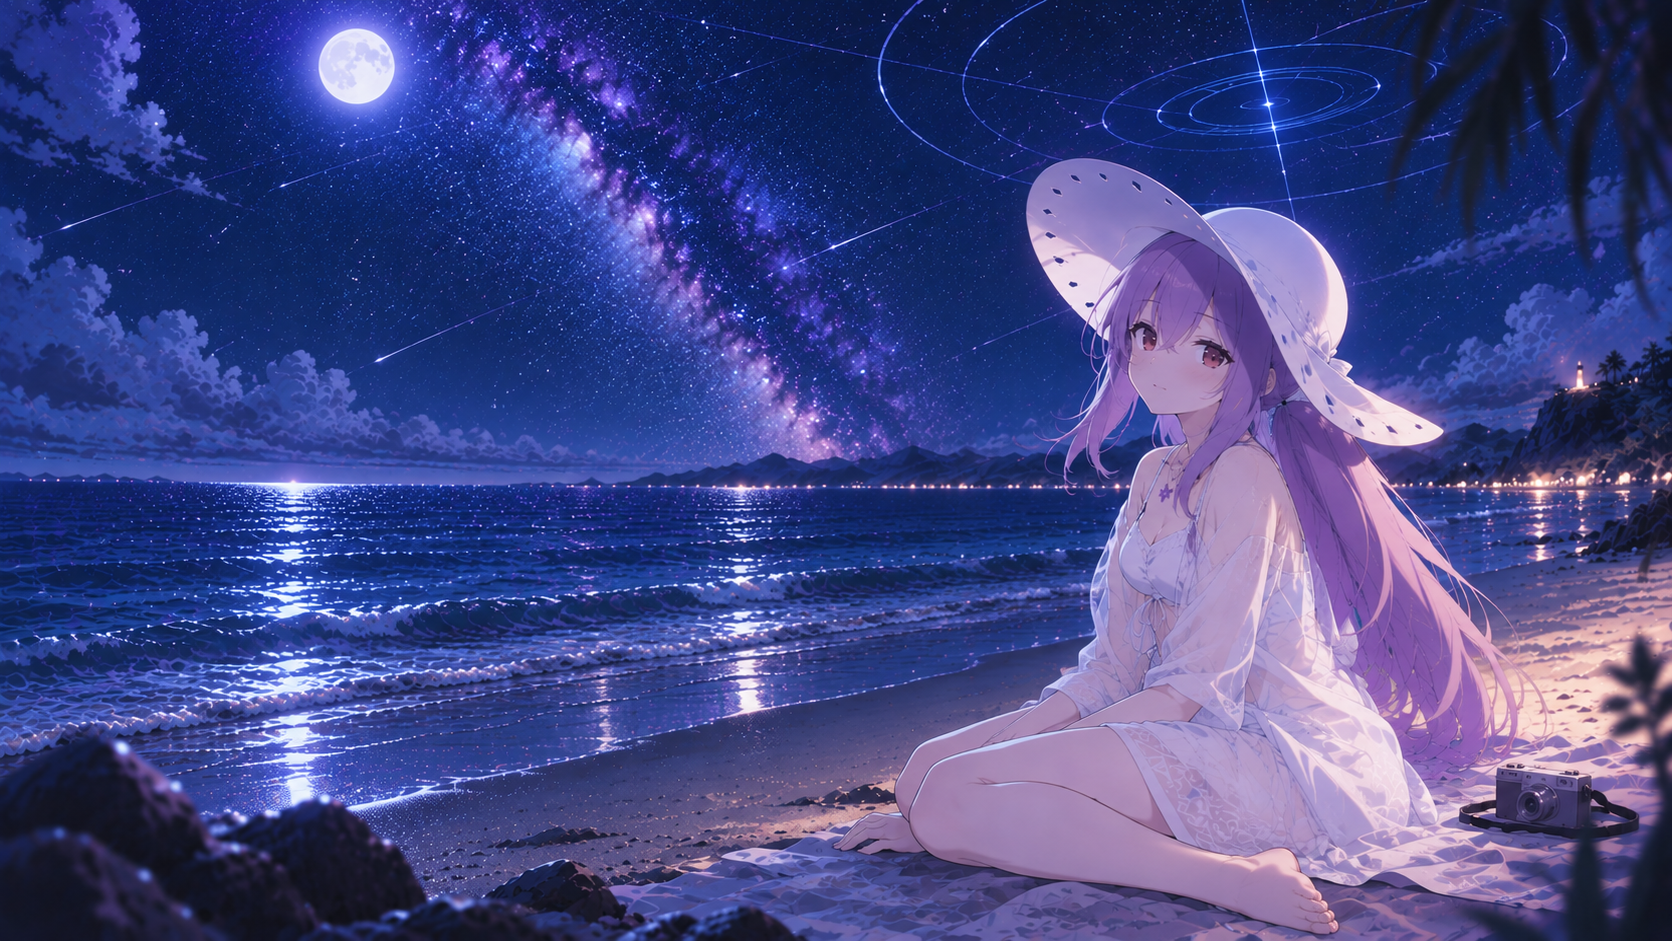
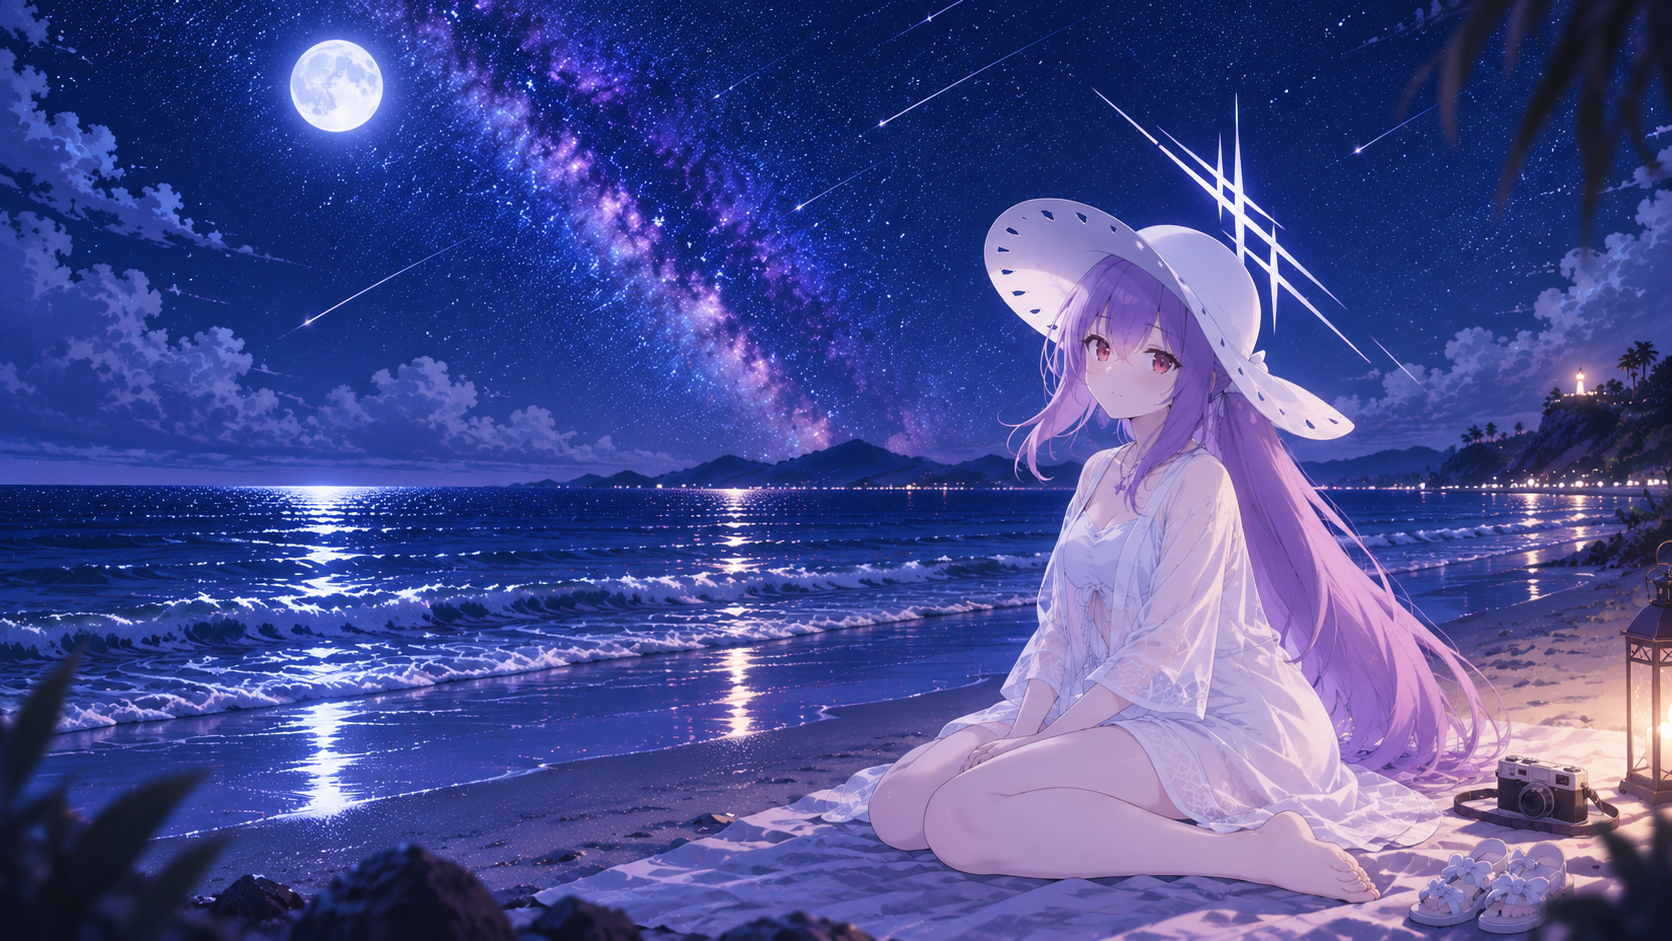
Add files via upload

diff --git a/index.html b/index.html
@@ -800,6 +800,19 @@ body.integrated-pages::before{
   background-size:100% auto;
   background-repeat:repeat-y;
 }
+
+/* V4.5.67: one viewport background only; never tile or duplicate the image. */
+body.integrated-pages::before{
+  position:fixed;
+  inset:0;
+  width:100vw;
+  height:100vh;
+  min-height:0;
+  aspect-ratio:auto;
+  background-size:cover;
+  background-position:center center;
+  background-repeat:no-repeat;
+}
 @media (max-width: 979px) {
   body.integrated-pages #status,
   body.integrated-pages #viewBoss > .panel {
@@ -812,10 +825,10 @@ body.integrated-pages::before{
 <div class="app grid">
   <div>
     <h1>蔚藍檔案總力戰 TL 編輯器</h1>
-    <div class="small">V4.5.66 · 全頁捲動背景版</div>
+    <div class="small">V4.5.67 · 單張跟隨背景版</div>
   </div>
-  <div id="status" class="status">V4.5.66 正在載入 272 名學生與本地圖片…</div>
-  <div class="small">V4.5.66 · 日服 · 繁體中文 · 全頁捲動背景</div>
+  <div id="status" class="status">V4.5.67 正在載入 272 名學生與本地圖片…</div>
+  <div class="small">V4.5.67 · 日服 · 繁體中文 · 單張跟隨背景</div>
 
   <section id="installHelp" class="panel grid">
     <div class="space">
@@ -1876,7 +1889,7 @@ $('refreshText').onclick=renderText;$('exportExcel').onclick=exportTimelineExcel
 
 (async()=>{
   try{
-    setStatus('V4.5.66 正在載入 272 名學生與本地圖片…');
+    setStatus('V4.5.67 正在載入 272 名學生與本地圖片…');
 
     students=applyV457JpCorrections(EMBEDDED_STUDENTS.map(x=>({...x})));
     raids=EMBEDDED_RAIDS.map(x=>({...x}));
@@ -1887,11 +1900,11 @@ $('refreshText').onclick=renderText;$('exportExcel').onclick=exportTimelineExcel
     renderStudents();
     renderTl();
 
-    setStatus(`V4.5.66 載入完成：${students.length} 名學生｜${raids.length} Boss`,'ok');
+    setStatus(`V4.5.67 載入完成：${students.length} 名學生｜${raids.length} Boss`,'ok');
     const sharedCode=normalizeCloudCode(new URLSearchParams(location.search).get('tl'));if(sharedCode){$('cloudCode').value=sharedCode;await loadTimelineCloud(sharedCode)}
   }catch(e){
     console.error('V4.5.4 bootstrap failed',e);
-    setStatus(`V4.5.66 啟動失敗：${e?.message||e}`,'err');
+    setStatus(`V4.5.67 啟動失敗：${e?.message||e}`,'err');
   }
 })();
 

diff --git a/sw.js b/sw.js
@@ -1,4 +1,4 @@
-const CACHE='ba-tl-v4-5-66-full-page-background';
+const CACHE='ba-tl-v4-5-67-single-background';
 const SHELL=["./site-background.png", "./", "./index.html", "./students_local.json", "./raids_local.json", "./manifest.webmanifest", "./icon-192.png", "./icon-512.png", "./apple-touch-icon.png", "./exceljs.min.js", "./excel-images-1.js", "./excel-images-2.js", "./excel-images-3.js", "./excel-images-4.js", "./boss-icons/Binah.webp", "./boss-icons/Chesed.webp", "./boss-icons/ShiroKuro.webp", "./boss-icons/Hieronymus.webp", "./boss-icons/Kaiten.webp", "./boss-icons/Perorodzilla.webp", "./boss-icons/Hod.webp", "./boss-icons/Goz.webp", "./boss-icons/Gregorius.webp", "./boss-icons/HoverCraft.webp", "./boss-icons/Kurokage.webp", "./boss-icons/Geburah.webp", "./boss-icons/Yesod.webp", "./Drumbarka.webp"];
 
 self.addEventListener('install',event=>{
